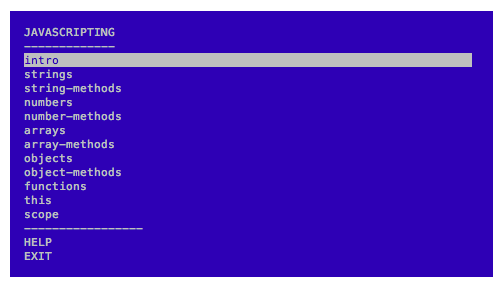
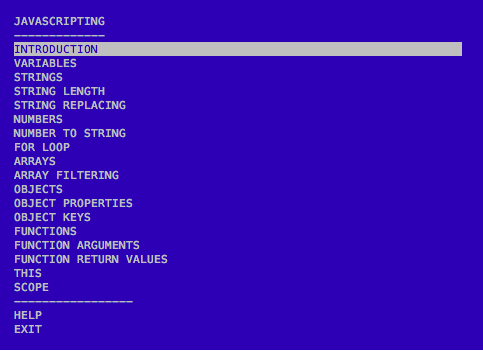
better naming

Changed region(s): [[0.0, 0.0, 1.0, 1.0]]

diff --git a/runner.js b/runner.js
@@ -1,26 +1,15 @@
 #!/usr/bin/env node
+
+var path = require('path');
 var adventure = require('adventure');
 var jsing = adventure('javascripting');
 
-var problems = [
-  'intro',
-  'strings',
-  'string-methods',
-  'numbers',
-  'number-methods',
-  'arrays',
-  'array-methods',
-  'objects',
-  'object-methods',
-  'functions',
-  'this',
-  'scope'
-];
+var problems = require('./menu.json');
 
 problems.forEach(function (prob) {
-  jsing.add(prob, function () {
-    return require('./problems/' + prob);
-  });
+  var p = prob.toLowerCase().replace(' ', '_');
+  var dir = path.join(__dirname, 'problems', p);
+  jsing.add(prob, function () { return require(dir); });
 });
 
 jsing.execute(process.argv.slice(2));

diff --git a/problems/introduction/index.js b/problems/introduction/index.js
@@ -1,0 +1,22 @@
+var md = require('cli-md');
+var path = require('path');
+var fs = require('fs');
+
+exports.problem = md(
+  fs.readFileSync(path.join(__dirname, 'readme.md'), 'utf8')
+);
+
+exports.verify = function (args, cb) {
+  if (/answer/.test(args)) {
+    console.log('correct\n');
+    cb(true);
+  }
+  else if (/otheranswer/i.test(args)) {
+    console.log('almost\n');
+    cb(false);
+  }
+  else {
+    console.log('nope.\n');
+    cb(false);
+  }
+};

diff --git a/problems/number-to-string/index.js b/problems/number-to-string/index.js
@@ -1,0 +1,22 @@
+var md = require('cli-md');
+var path = require('path');
+var fs = require('fs');
+
+exports.problem = md(
+  fs.readFileSync(path.join(__dirname, 'readme.md'), 'utf8')
+);
+
+exports.verify = function (args, cb) {
+  if (/answer/.test(args)) {
+    console.log('correct\n');
+    cb(true);
+  }
+  else if (/otheranswer/i.test(args)) {
+    console.log('almost\n');
+    cb(false);
+  }
+  else {
+    console.log('nope.\n');
+    cb(false);
+  }
+};

diff --git a/problems/object-keys/index.js b/problems/object-keys/index.js
@@ -1,0 +1,22 @@
+var md = require('cli-md');
+var path = require('path');
+var fs = require('fs');
+
+exports.problem = md(
+  fs.readFileSync(path.join(__dirname, 'readme.md'), 'utf8')
+);
+
+exports.verify = function (args, cb) {
+  if (/answer/.test(args)) {
+    console.log('correct\n');
+    cb(true);
+  }
+  else if (/otheranswer/i.test(args)) {
+    console.log('almost\n');
+    cb(false);
+  }
+  else {
+    console.log('nope.\n');
+    cb(false);
+  }
+};

diff --git a/problems/object-properties/index.js b/problems/object-properties/index.js
@@ -1,0 +1,22 @@
+var md = require('cli-md');
+var path = require('path');
+var fs = require('fs');
+
+exports.problem = md(
+  fs.readFileSync(path.join(__dirname, 'readme.md'), 'utf8')
+);
+
+exports.verify = function (args, cb) {
+  if (/answer/.test(args)) {
+    console.log('correct\n');
+    cb(true);
+  }
+  else if (/otheranswer/i.test(args)) {
+    console.log('almost\n');
+    cb(false);
+  }
+  else {
+    console.log('nope.\n');
+    cb(false);
+  }
+};

diff --git a/problems/replacing-strings/index.js b/problems/replacing-strings/index.js
@@ -1,0 +1,22 @@
+var md = require('cli-md');
+var path = require('path');
+var fs = require('fs');
+
+exports.problem = md(
+  fs.readFileSync(path.join(__dirname, 'readme.md'), 'utf8')
+);
+
+exports.verify = function (args, cb) {
+  if (/answer/.test(args)) {
+    console.log('correct\n');
+    cb(true);
+  }
+  else if (/otheranswer/i.test(args)) {
+    console.log('almost\n');
+    cb(false);
+  }
+  else {
+    console.log('nope.\n');
+    cb(false);
+  }
+};

diff --git a/problems/string-length/index.js b/problems/string-length/index.js
@@ -1,0 +1,22 @@
+var md = require('cli-md');
+var path = require('path');
+var fs = require('fs');
+
+exports.problem = md(
+  fs.readFileSync(path.join(__dirname, 'readme.md'), 'utf8')
+);
+
+exports.verify = function (args, cb) {
+  if (/answer/.test(args)) {
+    console.log('correct\n');
+    cb(true);
+  }
+  else if (/otheranswer/i.test(args)) {
+    console.log('almost\n');
+    cb(false);
+  }
+  else {
+    console.log('nope.\n');
+    cb(false);
+  }
+};

diff --git a/problems/variables/index.js b/problems/variables/index.js
@@ -1,0 +1,22 @@
+var md = require('cli-md');
+var path = require('path');
+var fs = require('fs');
+
+exports.problem = md(
+  fs.readFileSync(path.join(__dirname, 'readme.md'), 'utf8')
+);
+
+exports.verify = function (args, cb) {
+  if (/answer/.test(args)) {
+    console.log('correct\n');
+    cb(true);
+  }
+  else if (/otheranswer/i.test(args)) {
+    console.log('almost\n');
+    cb(false);
+  }
+  else {
+    console.log('nope.\n');
+    cb(false);
+  }
+};
